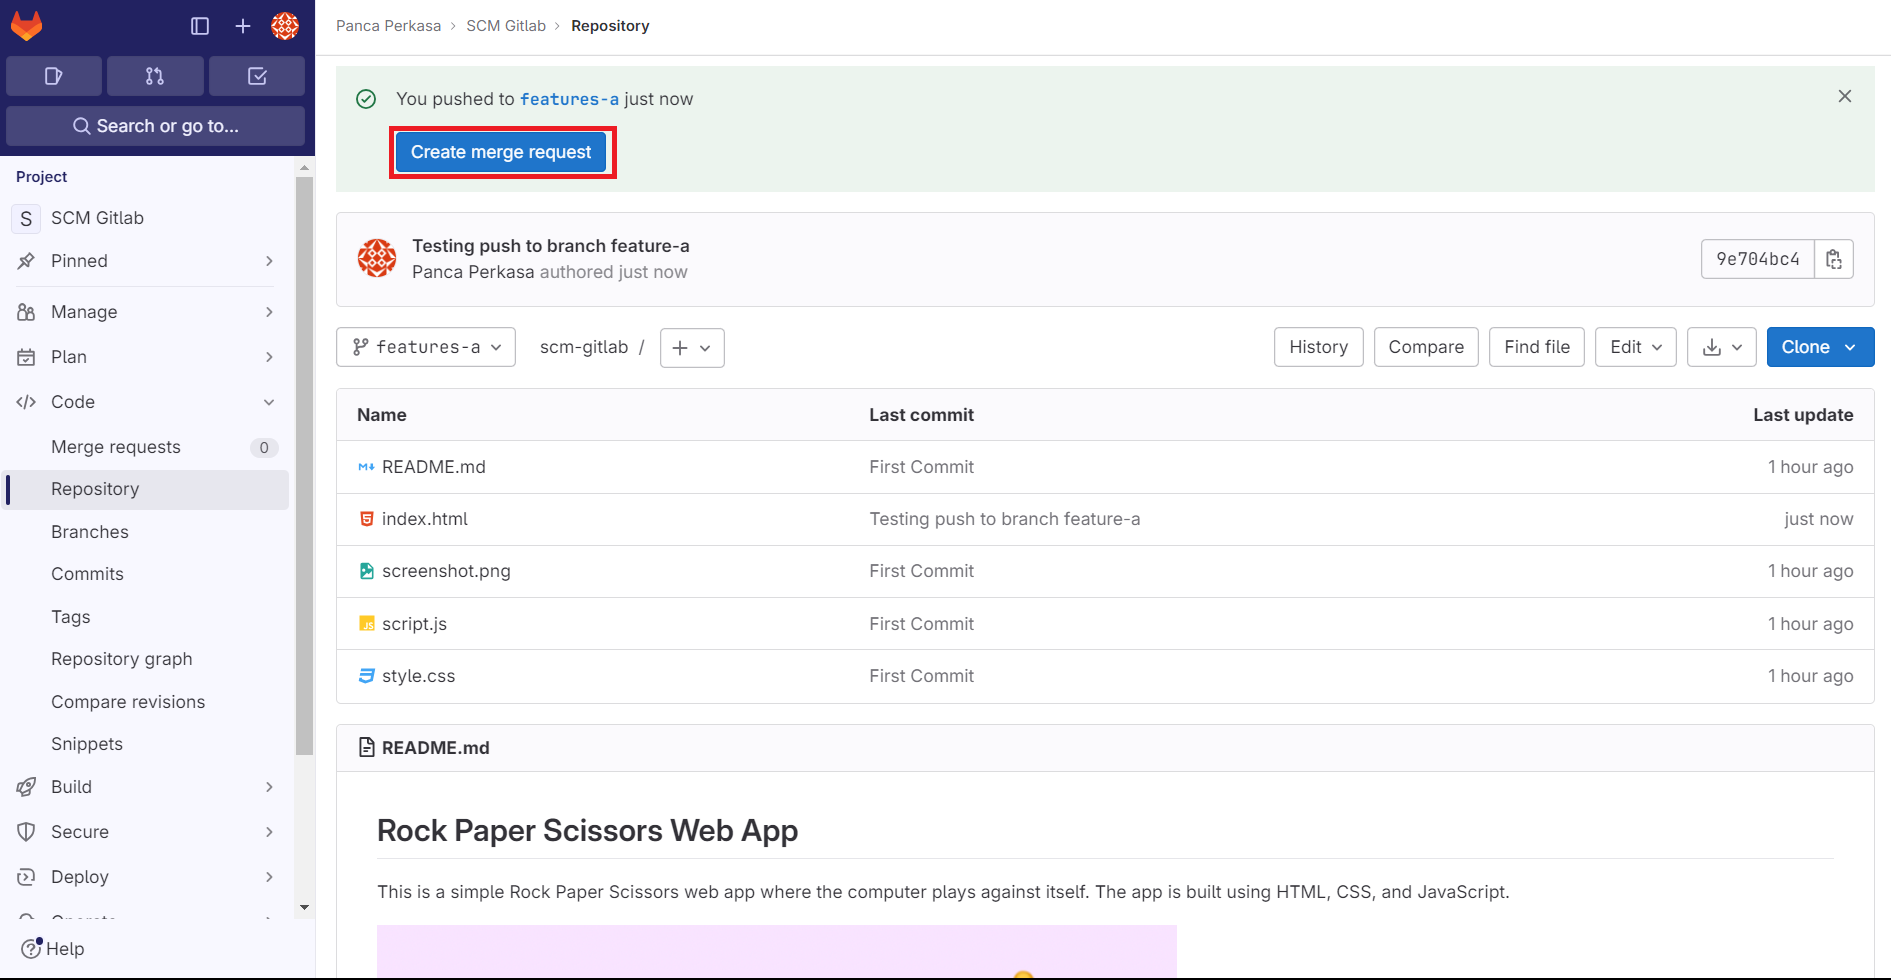
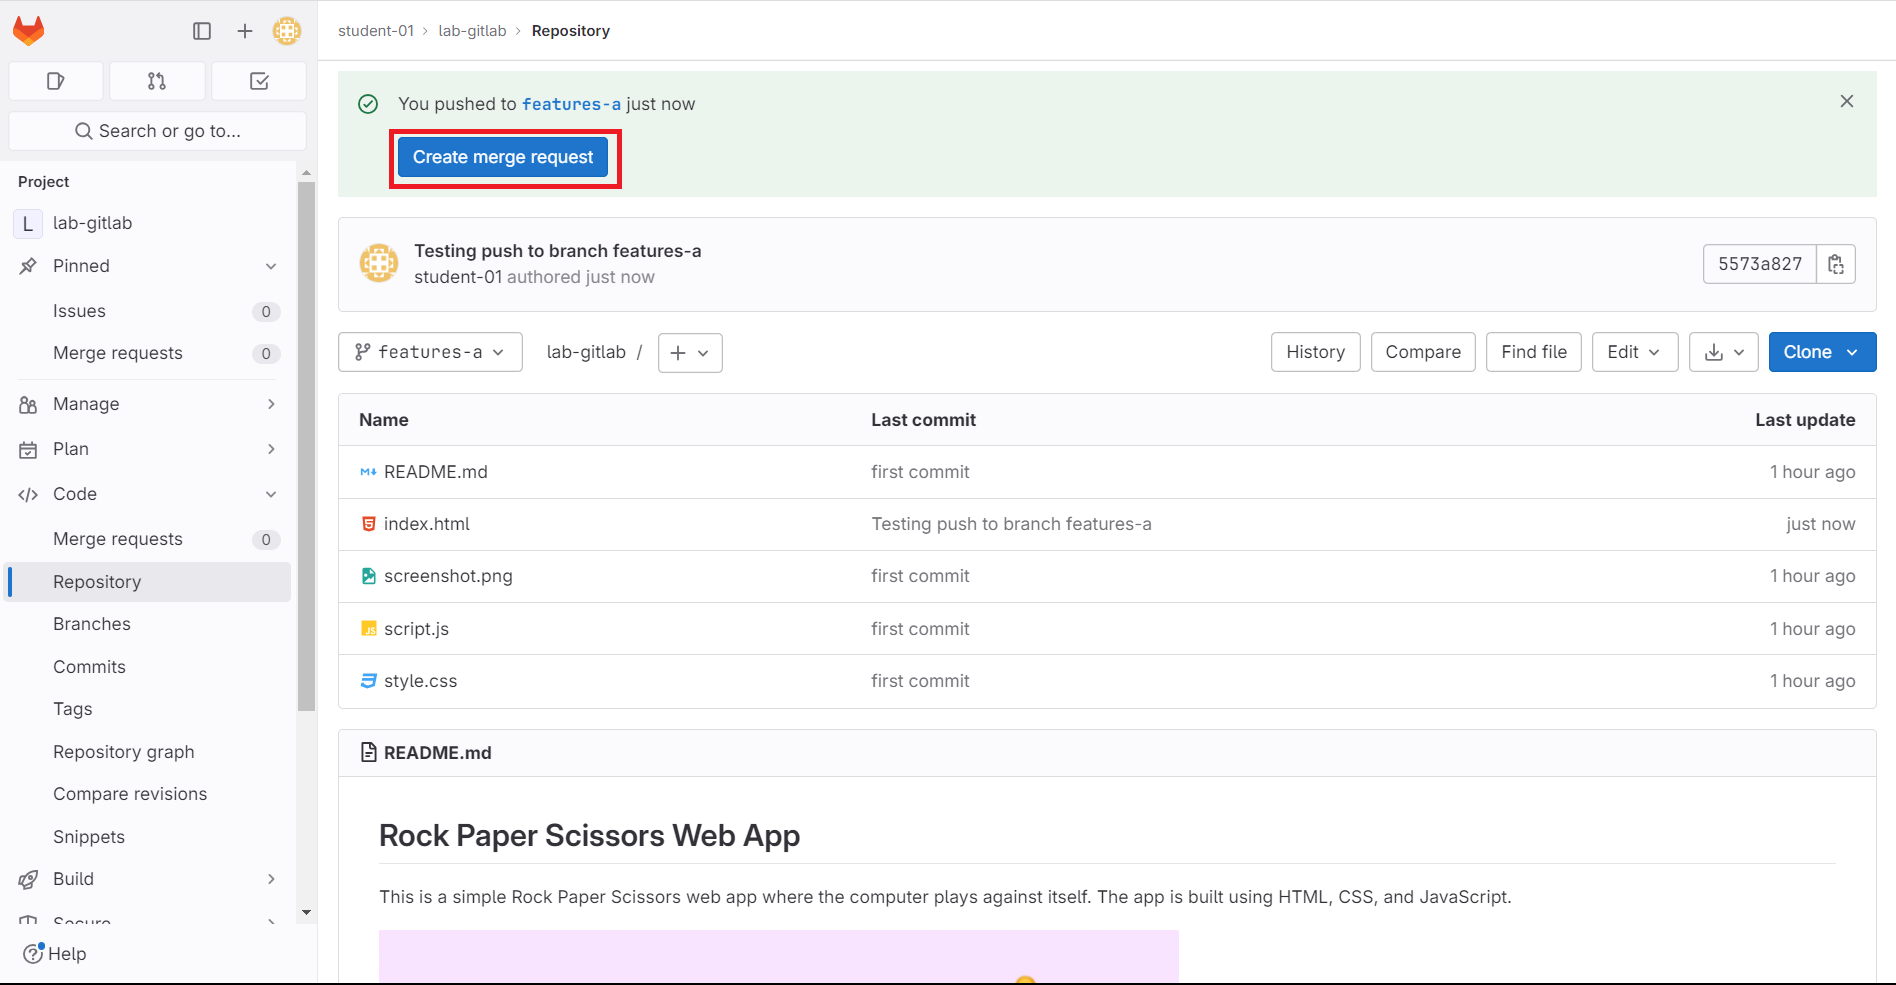
update

diff --git a/Chapter-2-Gitlab/02-Understanding-Gitworkflow.md b/Chapter-2-Gitlab/02-Understanding-Gitworkflow.md
@@ -1,10 +1,13 @@
-## Understanding Git Workflow
+# Git Workflow
 
-Back to your student lab <br>
+## Git Branching
+
+Enter the command below in your local machine <br>
 In any Git project, you can view all branches by writing the following command at the command line:
 ```
 git branch
 ```
+![Alt text](/Chapter-2-Gitlab/img/9-git-branch.png)
 
 If no branch is created, there will be no output in the terminal. Creating a branch is very easy:
 ```
@@ -14,6 +17,7 @@ Then, you need to move the development branch you just created. To do this, you 
 ```
 git checkout features-a
 ```
+![Alt text](/Chapter-2-Gitlab/img/9-git-checkout.png)
 
 If you want to delete a branch, you can do it with the following command:
 ```
@@ -21,28 +25,50 @@ If you want to delete a branch, you can do it with the following command:
 git branch -d [branch_name]
 ```
 
+Simulating changes to push to the features-a branch
+
 ```
-cd RockPaperScissors/
-sudo vim index.html
+cd lab-gitlab/
+vim index.html
 ```
 
 ![Alt text](/Chapter-2-Gitlab/img/9-adding-code.png)
 
 ```
 git add .
+git status
+```
+The following is the status of the project in the features-a branch which is still empty
+![Alt text](/Chapter-2-Gitlab/img/9-git-status.png)
+
+The following is the command to commit & push to the features-a branch
+```
 git commit -m "Testing push to branch feature-a"
 git push --set-upstream origin features-a
 ```
+Go back to the Gitlab web dashboard and see that your commit has been successfully pushed to the features-a branch
+![Alt text](/Chapter-2-Gitlab/img/9-success-push-branch.png)
+
+
+## Merge Request
+
 Make a merge request on the features-a branch via the Gitlab dashboard
 ![Alt text](/Chapter-2-Gitlab/img/10-create-merge-request.png)
 Fill in below detailed information according to your needs
 ![Alt text](/Chapter-2-Gitlab/img/11-create-merge-request.png)
+Click Create Merge Request
 ![Alt text](/Chapter-2-Gitlab/img/12-create-merge-request.png)
-Go to the merge request tab, review the merge request made
-![Alt text](/Chapter-2-Gitlab/img/13-merge-request.png)
+Go to the merge request tab, click the changes tab <br>
+
+![Alt text](/Chapter-2-Gitlab/img/13-merge-request-check.png)
+Review the changes
+![Alt text](/Chapter-2-Gitlab/img/13-merge-request-review.png)
+Back to overview tab, click approve & merge <br>
+You can add comment for this merge request
 ![Alt text](/Chapter-2-Gitlab/img/14-merge-request.png)
+
 ![Alt text](/Chapter-2-Gitlab/img/15-merge-request.png)
 Merge request from branch features-a to main has been successful
 ![Alt text](/Chapter-2-Gitlab/img/16-success-merge-request.png)
-Here is the repository graph
+You can check History Graph in tab Code>Repository Graph
 ![Alt text](/Chapter-2-Gitlab/img/17-repository-graph.png)
